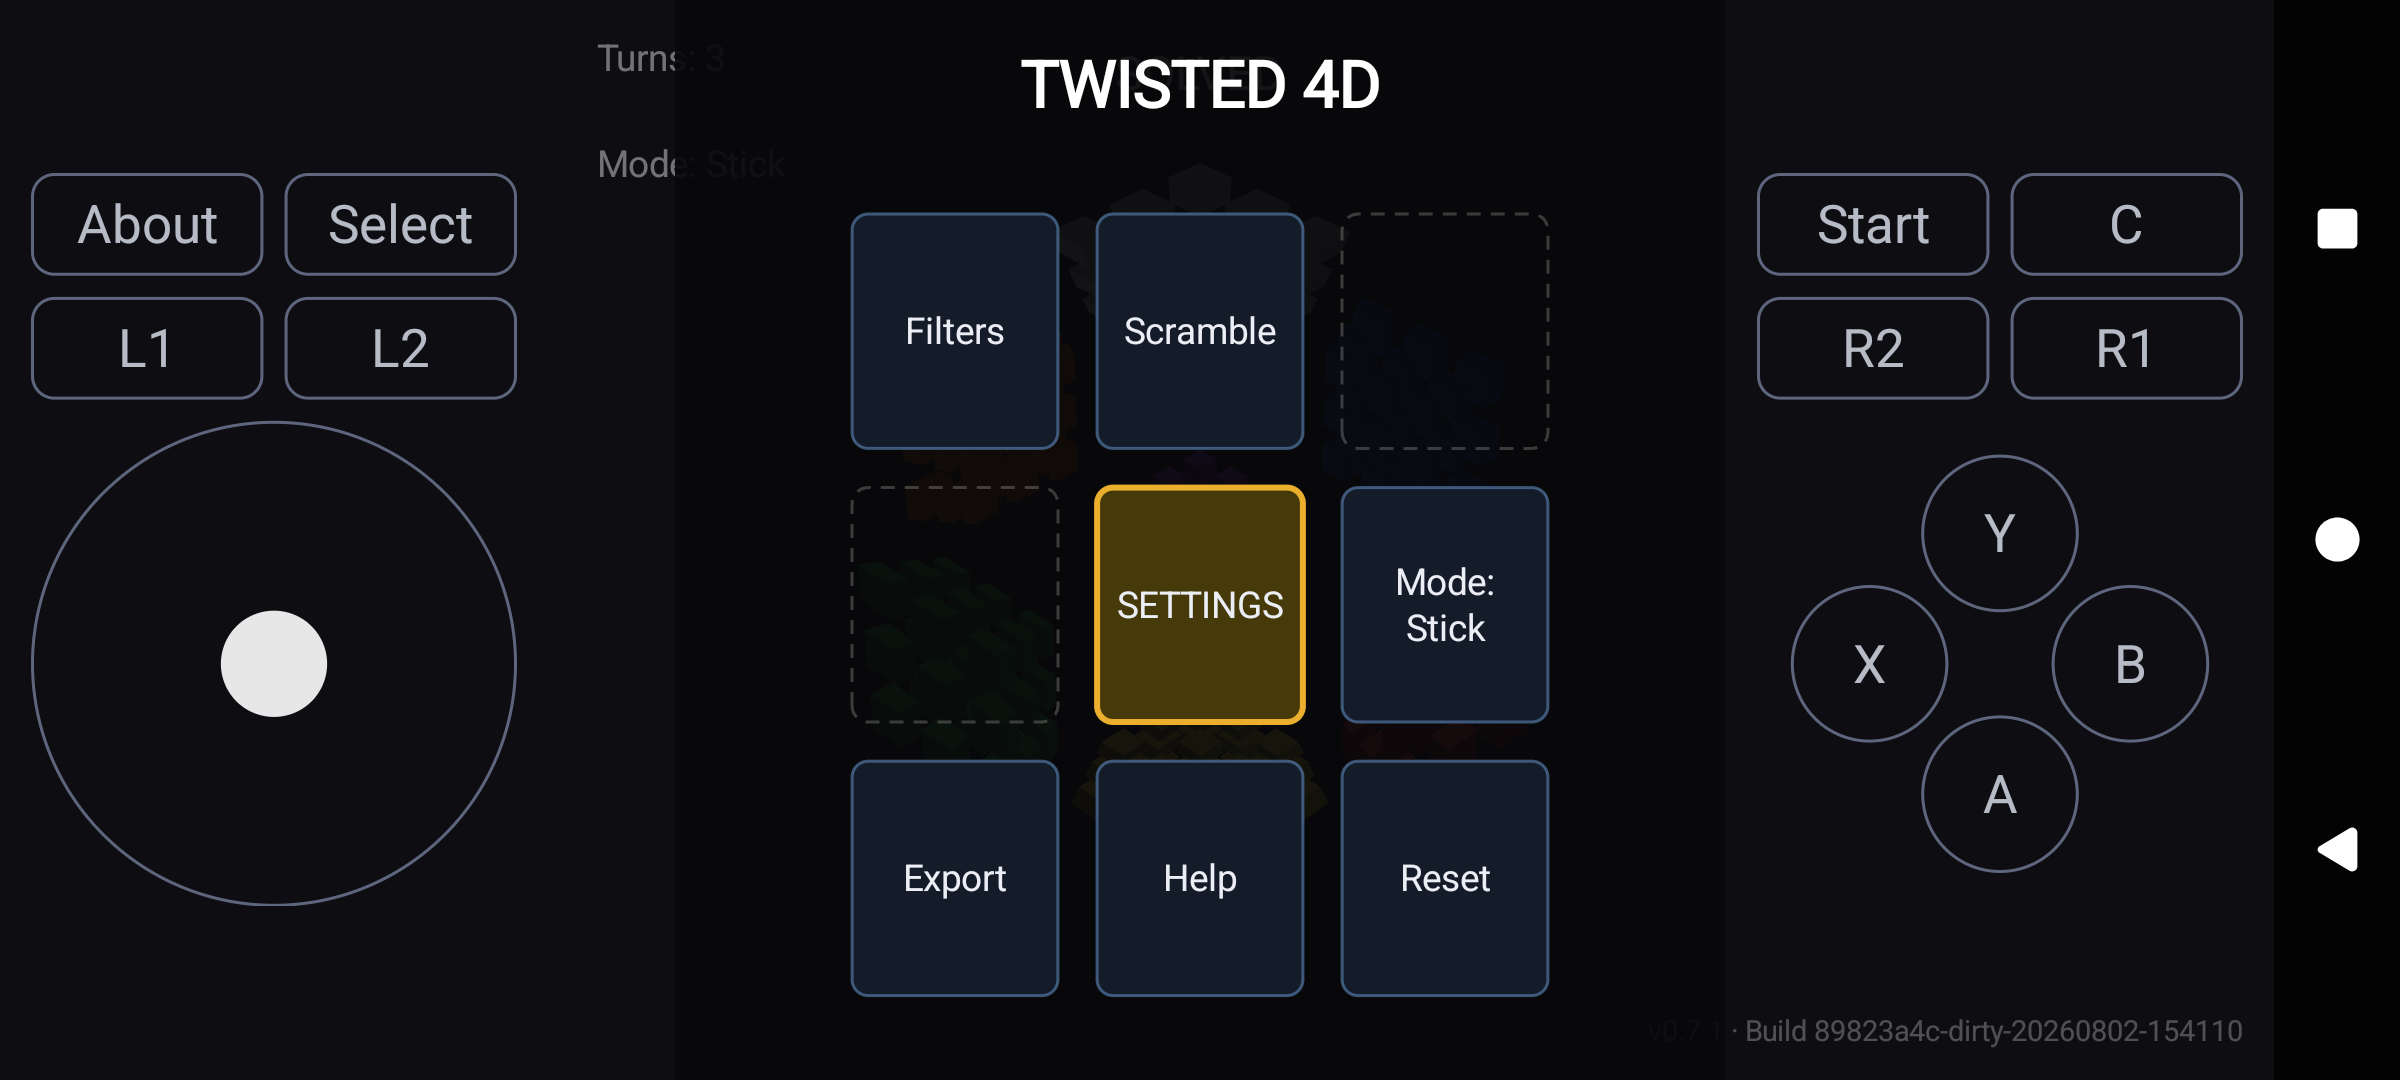
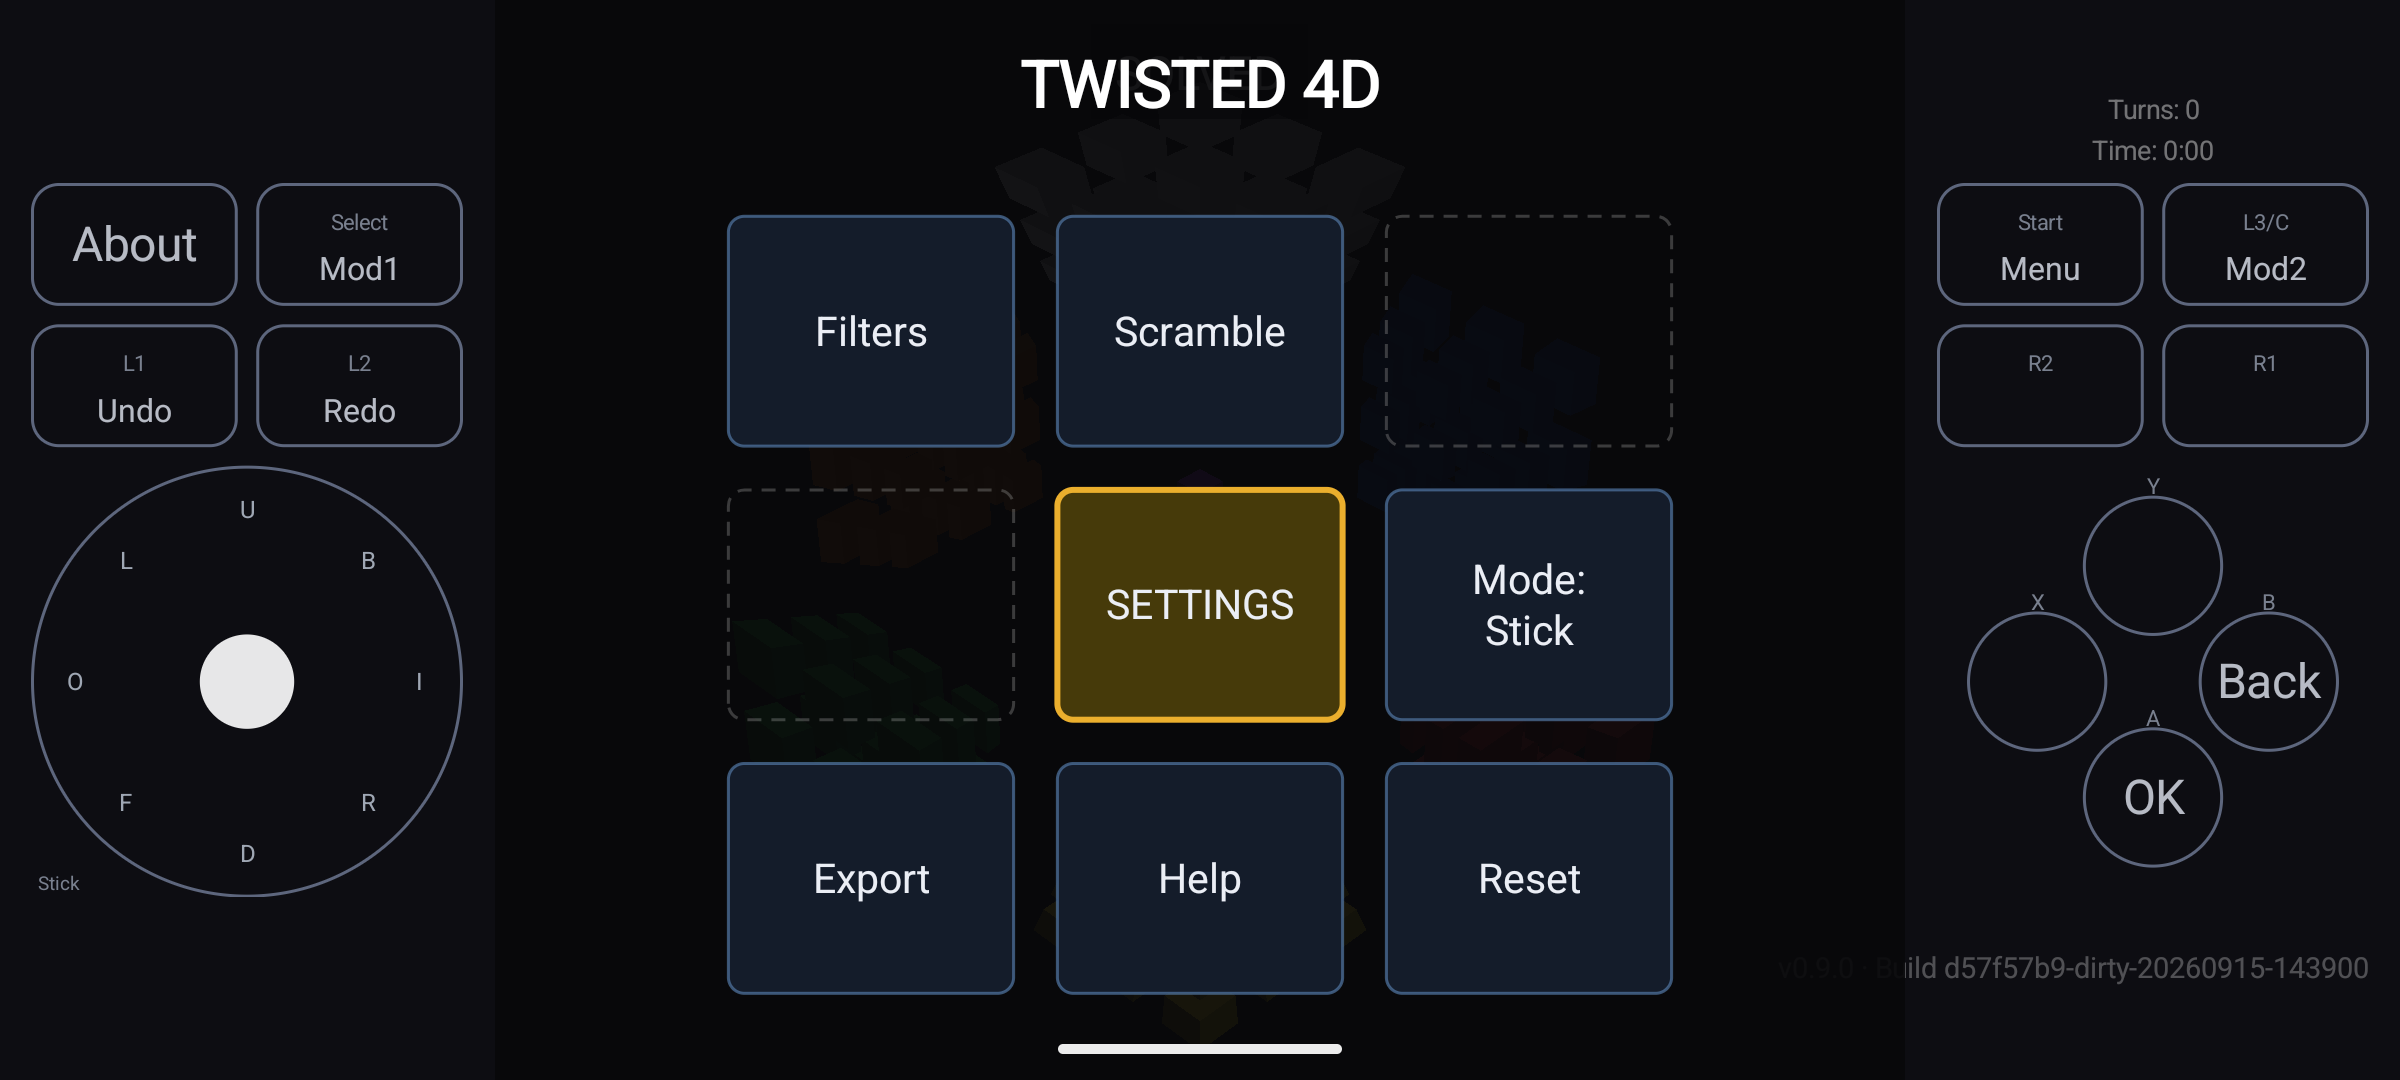
Bump to 0.9.0: fix virtual-stick selection flicker, refresh docs/screenshots for 1.0 prep
- HypercubeRenderer.updateCell4Selection now uses hysteresis (a lower
  magnitude to drop a selection than to start one) instead of one flat
  threshold. A real screen recording showed the virtual (touch-drag) stick's
  cell selection flickering to "nothing" mid-sweep between two wedges, even
  though the touch point never came near true center -- a free-form
  touch-drag circle's radius wobbles more than a spring-loaded physical
  stick's does, so a momentary dip under the old single 0.5 threshold
  dropped the selection instead of just crossing to the next wedge.
- README/store listing copy no longer frame 3D mode as part of the app --
  confirmed staying hidden for 1.0 (the code remains, just unreachable from
  the UI).
- Refreshed the Play Store screenshots (start menu, scrambled, settings,
  portrait) to reflect the reserved-viewport/status-line/recentering work
  from the previous commit; the old set predated it entirely.

Claude-Session: https://claude.ai/code/session_01PLrtkFDtsanw8cQazrYNq1

diff --git a/app/src/main/java/dev/twisted4d/app/HypercubeRenderer.kt b/app/src/main/java/dev/twisted4d/app/HypercubeRenderer.kt
@@ -1374,10 +1374,25 @@ class HypercubeRenderer : GLSurfaceView.Renderer {
      * to center clears the last selection rather than leaving it live-but-unhighlighted, so a
      * twist right after release falls back to [effectiveCell4]'s per-axis default instead of
      * silently reusing whatever was last selected (2026-08-02 design change).
+     *
+     * That "below the threshold" check is hysteresis (a lower [SELECTION_RELEASE_MAGNITUDE] once
+     * [hasSelection] is already true), not one flat cutoff -- added 2026-09-15 after a real screen
+     * recording showed the virtual (touch-drag) stick's selection flickering to "nothing" mid-
+     * sweep, between two wedges, even though the touch point never came anywhere near true center.
+     * A free-form touch-drag circle's radius wobbles far more than a spring-loaded physical
+     * stick's does (which stays close to full deflection throughout a sweep, so this never showed
+     * up there) -- with a single 0.5 threshold, a momentary dip to e.g. 0.45 mid-sweep dropped the
+     * selection entirely instead of just crossing to the neighboring wedge, exactly the "hard
+     * break between cells" this is supposed to give. Once selected, the stick now only has to stay
+     * outside [SELECTION_RELEASE_MAGNITUDE] (the same magnitude [GamepadInputHandler]'s own plain
+     * deadzone treats as "centered") to keep tracking wedge changes; a fresh selection still needs
+     * to clear the higher [SIGNIFICANT_STICK_MAGNITUDE] bar so tiny idle noise can't select
+     * anything on its own.
      */
     fun updateCell4Selection(x: Float, y: Float) {
-        val isSignificant = hypot(x, y) > SIGNIFICANT_STICK_MAGNITUDE
-        if (!isSignificant) {
+        val magnitude = hypot(x, y)
+        val armThreshold = if (hasSelection) SELECTION_RELEASE_MAGNITUDE else SIGNIFICANT_STICK_MAGNITUDE
+        if (magnitude <= armThreshold) {
             lastStickWedge = -1
             hasSelection = false
             publishLabelSnapshot()
@@ -2253,8 +2268,17 @@ class HypercubeRenderer : GLSurfaceView.Renderer {
         /** How far off-center (0..1 stick magnitude) counts as "moving significantly" for
          * [updateCell4Selection]'s snap-on-deflect trigger -- higher than the plain deadzone
          * [GamepadInputHandler] already applies, so a small/incidental deflection can still
-         * select a cell without yanking the view around every time. */
+         * select a cell without yanking the view around every time. Only gates *entering* a fresh
+         * selection -- see [SELECTION_RELEASE_MAGNITUDE] for what it takes to drop one already
+         * active. */
         private const val SIGNIFICANT_STICK_MAGNITUDE = 0.5f
+
+        /** How far off-center a stick has to fall to *drop* an already-active selection -- see
+         * updateCell4Selection's hysteresis doc. Deliberately the same magnitude
+         * [GamepadInputHandler.DEADZONE] treats as "centered" for a real stick, not
+         * [SIGNIFICANT_STICK_MAGNITUDE] -- that higher bar is only meant to keep idle noise from
+         * *starting* a selection, not to police one already in progress. */
+        private const val SELECTION_RELEASE_MAGNITUDE = 0.15f
 
         /** Column-major indices of the 3x3 rotation part within a 4x4 GL matrix (see
          * [lerpAndOrthonormalizeRotation]). */

diff --git a/store-assets/screenshots/notes.md b/store-assets/screenshots/notes.md
@@ -1,23 +1,22 @@
 # Screenshots
 
-All captured on the emulator at real resolution (no upscaling): landscape shots are 2400x1080,
-portrait is 1080x2400.
+Refreshed 2026-09-15 for 0.9.0's rendering/layout changes (reserved puzzle viewport, single-spaced
+status lines, recentered default view -- see app/build.gradle.kts' versionName comment for the
+full list). Previous set (captured 2026-08-02, for v0.6.0) is superseded.
+
+All captured on the `Medium_Phone_API_36.1` emulator at real resolution (no upscaling): landscape
+shots are 2400x1080, portrait is 1080x2400. App version shown: v0.9.0.
 
 - `landscape-02-start-menu.png` -- the Start Menu grid, clean/idle state
-- `landscape-03-scrambled.png` -- mid-solve, scrambled cube, no menu open
-- `landscape-04-settings.png` -- the 4D Settings submenu (Controller/Nintendo ABXY/Confirm
-  Scramble-Reset/Z Dir/Export Format)
+- `landscape-03-scrambled.png` -- mid-solve, scrambled puzzle (8 turns), no menu open
+- `landscape-04-settings.png` -- the 4D Settings submenu (Controller/Nintendo ABXY/Z Dir/Confirm
+  Scramble-Reset/Export Format/Button Config -- Button Config is new since the previous set)
 - `portrait-01-scrambled.png` -- same scrambled state as landscape-03, portrait orientation
 
 `landscape-01-solved.png` (the original solved-state shot used for the feature graphic) was
-removed from here since it's superseded by the scrambled ones -- the feature graphic itself
-(`../feature-graphic-01.png`) is unaffected, already generated and approved.
+removed from the previous set since it's superseded by the scrambled ones -- the feature graphic
+itself (`../feature-graphic-01.png`) is unaffected, already generated and approved, and wasn't
+regenerated this pass since the app icon/branding didn't change.
 
-Along the way, found and fixed a real bug while framing the Settings screenshot: the "Confirm
-Scramble/Reset" tile's label overflowed its cell and got clipped by the neighboring tile drawn
-after it (StartMenuView.kt's tile text draws with no width check). Fixed by breaking the label
-onto its own line ("Confirm\nScramble/Reset\n..." in MainActivity.kt) rather than changing the
-rendering logic -- see `landscape-04-settings.png`, renders cleanly now.
-
-Still open: which of these actually go into the store listing, and whether a mid-scramble
-feature graphic is wanted instead of the solved one already made.
+Still open: which of these actually go into the store listing, and whether a mid-scramble feature
+graphic is wanted instead of the solved one already made.

diff --git a/README.md b/README.md
@@ -1,15 +1,17 @@
 # twisted4d
 
-A native Android app that simulates 3D and 4D Rubik's-cube-style twisty puzzles — a standard
-3x3x3 cube, and a 3⁴ hypercube (tesseract) rendered with a true 4D→3D perspective projection
-(tapered, MC4D-style cells, not a flat unfolded net). The UI/app layer is Kotlin; the 4D puzzle
-math and twist logic live in a native Rust core.
+A native Android app that simulates a 4D Rubik's-cube-style twisty puzzle — a 3⁴ hypercube
+(tesseract) rendered with a true 4D→3D perspective projection (tapered, MC4D-style cells, not a
+flat unfolded net). The UI/app layer is Kotlin; the 4D puzzle math and twist logic live in a
+native Rust core.
 
 twisted4d is built gamepad-first — cell selection and twisting feel most precise with a physical
-controller, and the in-app Help screen documents a full gamepad control scheme for both 3D and 4D
-modes. A full on-screen touch controller is also built in for 4D mode (portrait and landscape), so
-no gamepad is required to play — it mirrors the physical control scheme directly, mode for mode
-and button for button.
+controller, and the in-app Help screen documents the full gamepad control scheme. A full on-screen
+touch controller is also built in (portrait and landscape), so no gamepad is required to play — it
+mirrors the physical control scheme directly, mode for mode and button for button.
+
+(An ordinary 3D Rubik's cube mode also exists in the codebase — it predates the 4D puzzle and
+isn't currently exposed in the UI.)
 
 The project was inspired by [Hyperspeedcube](https://github.com/HactarCE/Hyperspeedcube) and its
 predecessor, [MagicCube4D](https://superliminal.com/cube/); see the in-app Help screen for full
@@ -33,7 +35,7 @@ all. The app runs on any Android device running API 26+ (Android 8.0 or later).
 
 See the in-app Help screen (tap the Help tile in the Start Menu, or the virtual controller's About
 button for a short introduction) for the full control scheme, covering the on-screen virtual
-controller, 3D-mode gamepad controls, and 4D mode's Stick/RKT gamepad input schemes.
+controller and the gamepad's Stick/RKT input schemes.
 
 ## Credits and originality
 

diff --git a/store-assets/listing.md b/store-assets/listing.md
@@ -30,7 +30,7 @@ Two control modes:
 SOLVING AIDS
 - Piece-type filters (centers, ridges, edges, corners) fade out pieces you don't need to look at
   yet, so you can focus on one stage of a solve at a time
-- Undo/redo, scramble, and reset
+- A solve timer, undo/redo, scramble, and reset
 - Export your solve in standard community twist notation, or as a MagicCube4D-compatible log file,
   for sharing or analysis in other tools
 
@@ -43,9 +43,14 @@ credits.
 
 - Word "Rubik" is deliberately avoided throughout (trademark) -- see the conversation that
   produced this draft, 2026-08-02.
-- No mention of a 3D cube mode -- David confirmed access to it was stripped out (2026-08-02); the
-  3D renderer code still exists internally but isn't reachable from the UI, so it's not a feature
-  to advertise.
-- Full description is ~1400 characters as of this draft -- well under the 4000 limit, room to
+- No mention of a 3D cube mode -- not reachable from the UI (David's call, 2026-08-01/confirmed
+  again 2026-09-15 as staying that way for 1.0), so it's not a feature to advertise. The 3D
+  renderer code still exists internally, just unused.
+- Full description is ~1450 characters as of this draft -- well under the 4000 limit, room to
   expand if needed.
-- Screenshots live in screenshots/ -- see that folder's own notes for what's still needed.
+- Screenshots live in screenshots/ -- see that folder's own notes; refreshed 2026-09-15 for the
+  0.9.0 layout/rendering changes (reserved puzzle viewport, single-spaced status lines, recentered
+  default view -- see the app/build.gradle.kts versionName comment for the full list).
+- The Play Store listing is already live and public as of this draft (not just open testing) --
+  this file may already be somewhat behind whatever text is actually live; treat it as a base to
+  reconcile against the live listing, not as ground truth of what's currently published.
